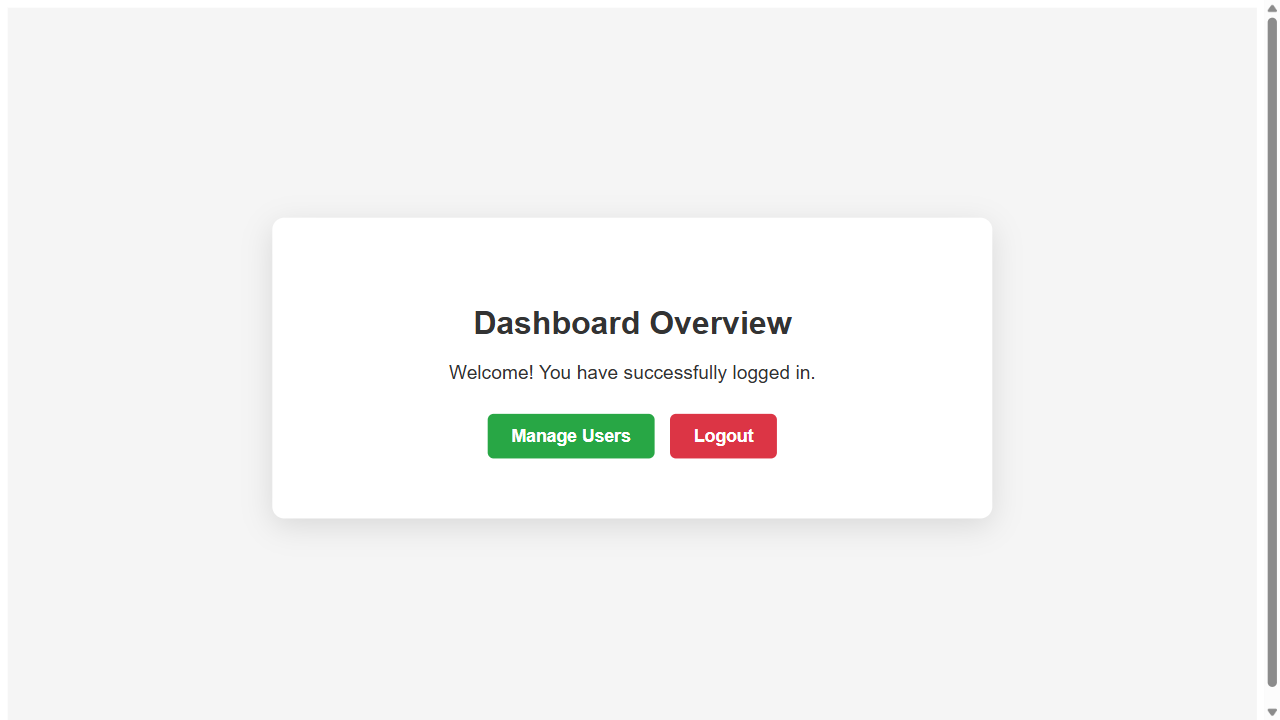
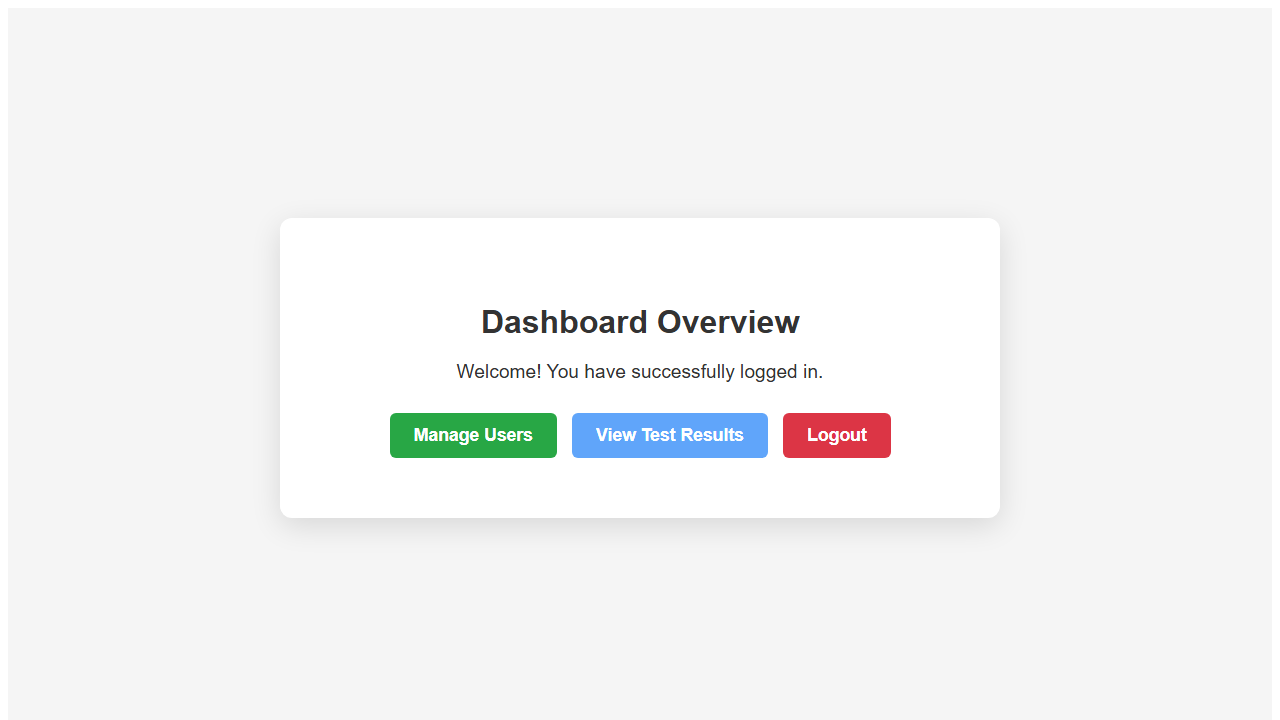
feat: Implement a new React application featuring login, dashboard, and a Playwright test report viewer, alongside updated configurations and assets.

Changed region(s): [[0.2812, 0.4278, 0.7188, 0.6417], [0.9688, 0.0306, 1.0, 0.9472]]

diff --git a/src/components/TestReportComponent.tsx b/src/components/TestReportComponent.tsx
@@ -1,0 +1,117 @@
+import { useState, useEffect } from 'react';
+import { useNavigate } from 'react-router-dom';
+
+export default function TestReportComponent() {
+  const navigate = useNavigate();
+  const [stats, setStats] = useState({ total: 0, passed: 0, failed: 0, duration: 0, suites: [] as any[]});
+  const [loading, setLoading] = useState(true);
+
+  // eslint-disable-next-line react-hooks/exhaustive-deps
+  const fetchResults = async () => {
+      try {
+          const res = await fetch('/test-results.json');
+          if (!res.ok) throw new Error("Failed to fetch results");
+          const data = await res.json();
+          setStats({
+              total: data.stats.expected + data.stats.unexpected + data.stats.skipped,
+              passed: data.stats.expected,
+              failed: data.stats.unexpected,
+              duration: data.stats.duration,
+              suites: data.suites || []
+          });
+      } catch (e) {
+          console.error("Error loading test results", e);
+      } finally {
+          setLoading(false);
+      }
+  };
+
+  useEffect(() => {
+    fetchResults();
+  }, [fetchResults]);
+
+  return (
+    <div style={{ minHeight: '100vh', backgroundColor: '#1e1e2f', color: '#e0e0e0', padding: '40px 20px', fontFamily: 'Inter, system-ui, sans-serif' }}>
+      <div style={{ maxWidth: '1000px', margin: '0 auto' }}>
+        <div style={{ display: 'flex', justifyContent: 'space-between', alignItems: 'center', marginBottom: '40px' }}>
+          <div>
+            <h1 style={{ fontSize: '2.5rem', fontWeight: 800, margin: '0 0 8px 0', color: '#f87171' }}>
+              Execution Failures
+            </h1>
+            <p style={{ margin: 0, color: '#9ca3af', fontSize: '1.1rem' }}>Playwright Test Report</p>
+          </div>
+          <div style={{ display: 'flex', gap: '15px' }}>
+            <button onClick={fetchResults} style={{ padding: '10px 20px', backgroundColor: 'rgba(255,255,255,0.05)', color: 'white', border: '1px solid rgba(255,255,255,0.1)', borderRadius: '8px', cursor: 'pointer', display: 'flex', alignItems: 'center', gap: '8px', transition: 'all 0.2s', fontWeight: 500 }} onMouseOver={e => e.currentTarget.style.backgroundColor = 'rgba(255,255,255,0.1)'} onMouseOut={e => e.currentTarget.style.backgroundColor = 'rgba(255,255,255,0.05)'}>
+              <svg width="16" height="16" viewBox="0 0 24 24" fill="none" stroke="currentColor" strokeWidth="2"><path d="M21 12a9 9 0 0 1-9 9m9-9a9 9 0 0 0-9-9m9 9H3m9 9a9 9 0 0 1-9-9m9 9c1.657 0 3-4.03 3-9s-1.343-9-3-9m0 18c-1.657 0-3-4.03-3-9s1.343-9 3-9m-9 9a9 9 0 0 1 9-9"/></svg>
+              Refresh
+            </button>
+            {/* <button onClick={() => navigate('/dashboard')} style={{ padding: '10px 20px', backgroundColor: 'rgba(96, 165, 250, 0.1)', color: '#60a5fa', border: '1px solid rgba(96, 165, 250, 0.2)', borderRadius: '8px', cursor: 'pointer', transition: 'all 0.2s', fontWeight: 500 }} onMouseOver={e => e.currentTarget.style.backgroundColor = 'rgba(96, 165, 250, 0.2)'} onMouseOut={e => e.currentTarget.style.backgroundColor = 'rgba(96, 165, 250, 0.1)'}>
+              Back to Dashboard
+            </button> */}
+          </div>
+        </div>
+
+        {loading ? (
+          <div style={{ display: 'flex', justifyContent: 'center', alignItems: 'center', height: '400px' }}>
+             <p>Loading Results...</p>
+          </div>
+        ) : (
+          <>
+            <div style={{ display: 'grid', gridTemplateColumns: 'repeat(auto-fit, minmax(200px, 1fr))', gap: '20px', marginBottom: '40px' }}>
+              {[
+                { label: 'Total Executed', value: stats.total, color: '#3b82f6', bg: 'rgba(59, 130, 246, 0.1)' },
+                { label: 'Passed', value: stats.passed, color: '#22c55e', bg: 'rgba(34, 197, 94, 0.1)' },
+                { label: 'Failed', value: stats.failed, color: '#ef4444', bg: 'rgba(239, 68, 68, 0.1)' },
+              ].map((stat, i) => (
+                <div key={i} style={{ backgroundColor: 'rgba(40, 42, 54, 0.8)', border: '1px solid rgba(255,255,255,0.05)', borderRadius: '12px', padding: '20px', display: 'flex', flexDirection: 'column', gap: '8px' }}>
+                   <span style={{ color: '#9ca3af', fontSize: '0.9rem', fontWeight: 500 }}>{stat.label}</span>
+                  <span style={{ fontSize: '2.5rem', fontWeight: 700, color: stat.color }}>{stat.value}</span>
+                </div>
+              ))}
+            </div>
+
+            <div style={{ backgroundColor: 'rgba(40, 42, 54, 0.8)', border: '1px solid rgba(239, 68, 68, 0.2)', borderRadius: '12px', overflow: 'hidden' }}>
+              <div style={{ padding: '16px 20px', borderBottom: '1px solid rgba(239, 68, 68, 0.2)', backgroundColor: 'rgba(239, 68, 68, 0.05)' }}>
+                <h3 style={{ margin: 0, fontSize: '1.2rem', fontWeight: 600, color: '#fca5a5' }}>Failed Tests</h3>
+              </div>
+              
+              <div style={{ padding: '0' }}>
+                {stats.suites.flatMap(suite => 
+                   (suite.specs || []).filter((s:any) => !s.ok).map((spec: any, j: number) => {
+                       const errorMsg = spec.tests?.[0]?.results?.[0]?.error?.message || "Unknown Error";
+                       return (
+                          <div key={`${suite.title}-${j}`} style={{ padding: '20px', borderBottom: '1px solid rgba(255,255,255,0.05)' }}>
+                             <div style={{ display: 'flex', justifyContent: 'space-between', alignItems: 'flex-start', marginBottom: '12px' }}>
+                                 <div>
+                                    <span style={{ color: '#9ca3af', fontSize: '0.85rem', display: 'block', marginBottom: '4px' }}>{suite.title}</span>
+                                    <h4 style={{ margin: '0', fontSize: '1.1rem', color: '#f3f4f6' }}>{spec.title}</h4>
+                                 </div>
+                                 <span style={{ padding: '4px 10px', borderRadius: '4px', fontSize: '0.75rem', fontWeight: 600, backgroundColor: 'rgba(239, 68, 68, 0.1)', color: '#fca5a5', border: '1px solid rgba(239, 68, 68, 0.2)' }}>
+                                   FAILED
+                                 </span>
+                             </div>
+                             <div style={{ backgroundColor: 'rgba(0,0,0,0.3)', padding: '16px', borderRadius: '8px', overflowX: 'auto' }}>
+                                 <pre style={{ margin: 0, color: '#f87171', fontSize: '0.9rem', fontFamily: 'monospace', whiteSpace: 'pre-wrap' }}>
+                                     {errorMsg}
+                                 </pre>
+                             </div>
+                          </div>
+                       )
+                   })
+                )}
+                
+                {stats.failed === 0 && (
+                  <div style={{ padding: '40px', textAlign: 'center', color: '#22c55e' }}>
+                    <svg width="48" height="48" viewBox="0 0 24 24" fill="none" stroke="currentColor" strokeWidth="2" style={{ margin: '0 auto 16px', display: 'block' }}><path d="M22 11.08V12a10 10 0 1 1-5.93-9.14"></path><polyline points="22 4 12 14.01 9 11.01"></polyline></svg>
+                    <h3 style={{ margin: '0 0 8px 0', fontSize: '1.2rem' }}>All Tests Passed!</h3>
+                    <p style={{ margin: 0, color: '#9ca3af' }}>No execution failures found in the latest report.</p>
+                  </div>
+                )}
+              </div>
+            </div>
+          </>
+        )}
+      </div>
+    </div>
+  );
+}

diff --git a/src/App.tsx b/src/App.tsx
@@ -1,5 +1,6 @@
 import { useState } from 'react'
 import { BrowserRouter as Router, Routes, Route, useNavigate, Link } from 'react-router-dom'
+import TestReportComponent from './components/TestReportComponent';
 
 function LoginComponent() {
   const [username, setUsername] = useState('')
@@ -73,6 +74,7 @@ function DashboardComponent() {
         <p id="success-message" style={{ fontSize: '1.2rem', marginBottom: '30px' }}>Welcome! You have successfully logged in.</p>
         <div style={{ display: 'flex', gap: '15px', justifyContent: 'center' }}>
           <Link to="/user" style={{ padding: '12px 24px', backgroundColor: '#28a745', color: 'white', textDecoration: 'none', borderRadius: '6px', fontSize: '1.1rem', fontWeight: 600 }}>Manage Users</Link>
+          <Link to="/test-report" style={{ padding: '12px 24px', backgroundColor: '#60a5fa', color: 'white', textDecoration: 'none', borderRadius: '6px', fontSize: '1.1rem', fontWeight: 600 }}>View Test Results</Link>
           <button 
             id="logout-button" 
             onClick={() => navigate('/')} 
@@ -85,6 +87,8 @@ function DashboardComponent() {
     </div>
   )
 }
+
+
 
 function UserComponent() {
   return (
@@ -103,8 +107,9 @@ function App() {
     <Router>
       <Routes>
         <Route path="/" element={<LoginComponent />} />
-        <Route path="/dashboard" element={<DashboardComponent />} />
-        <Route path="/user" element={<UserComponent />} />
+        {/* <Route path="/dashboard" element={<DashboardComponent />} /> */}
+        <Route path="/test-report" element={<TestReportComponent />} />
+        {/* <Route path="/user" element={<UserComponent />} /> */}
       </Routes>
     </Router>
   )

diff --git a/playwright.config.ts b/playwright.config.ts
@@ -24,7 +24,7 @@ export default defineConfig({
   /* Reporter to use. See https://playwright.dev/docs/test-reporters */
   reporter: [
     ["html", { open: "on-failure" }],
-    ['json', { outputFile: 'test-results/results.json' }]
+    ['json', { outputFile: 'public/test-results.json' }]
   ],
   /* Shared settings for all the projects below. See https://playwright.dev/docs/api/class-testoptions. */
   use: {
